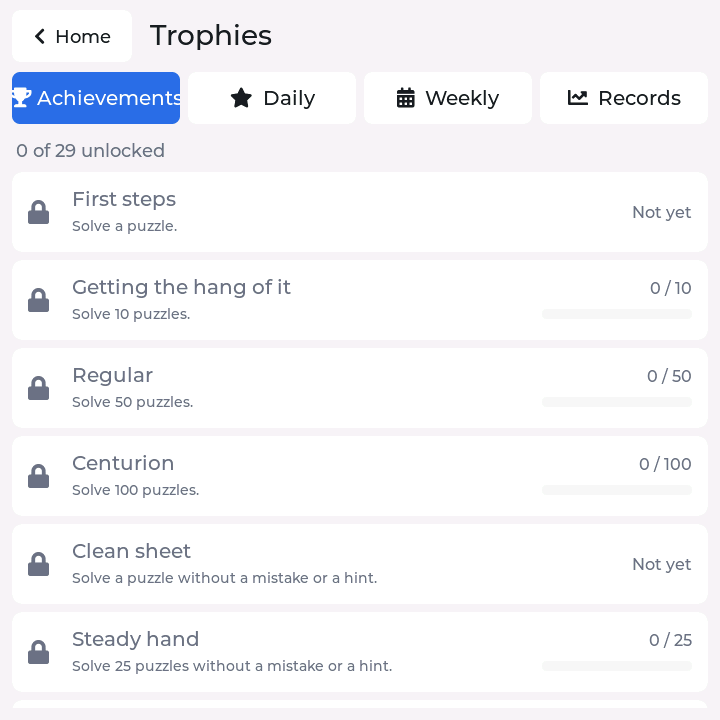
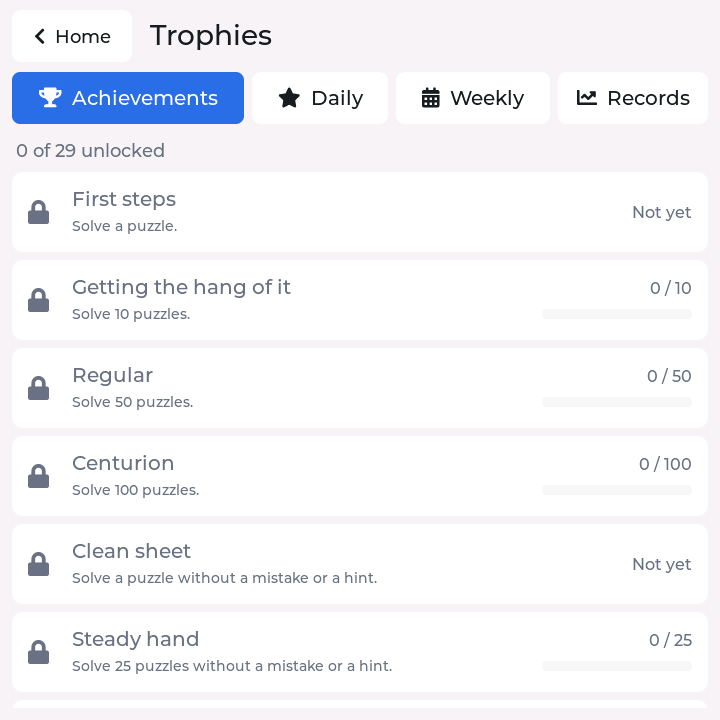
update screenshot

Changed region(s): [[0.0, 0.0917, 0.5194, 0.1833], [0.7639, 0.1222, 0.9778, 0.1528], [0.55, 0.1222, 0.7333, 0.1528]]

diff --git a/src/sudoku_ui.c b/src/sudoku_ui.c
@@ -594,166 +594,18 @@ static lv_obj_t *make_label(lv_obj_t *parent, const lv_font_t *font, lv_color_t 
     return l;
 }
 
-/* ------------------------------------------------------------- justified text */
-/*
- * LVGL labels can't justify text, so this widget lays the words out itself:
- * every line of a paragraph but the last is spread to the full width (left
- * and right edges flush); the last line, and a line of one word, stay left.
- * '\n' ends a paragraph. Font, colour and line spacing come from the styles
- * (inherited, like a label). Words are measured glyph by glyph (UTF-8).
- * Height follows the text (LV_SIZE_CONTENT). Every dialog (make_msgbox) uses it.
- */
-typedef struct {
-    char *text;
-    int32_t width;                      /* content width the height was worked out for */
-} just_t;
-
-#define JUST_MAX_WORDS 64               /* per line */
-
-/* the UTF-8 character at s[*i] (moves *i past it); 0 at n */
-static uint32_t just_utf8_next(const char *s, int n, int *i)
+/* ------------------------------------------------------------- dialog text */
+/* Text that wraps to its parent's width, left-aligned (dialogs). Font: NULL
+ * = the parent's (inherited, like a label's). */
+static lv_obj_t *make_wrap_text(lv_obj_t *parent, const lv_font_t *font, lv_color_t color, const char *text)
 {
-    if (*i >= n) return 0;
-    uint8_t c = (uint8_t)s[(*i)++];
-    int more = c >= 0xF0 ? 3 : c >= 0xE0 ? 2 : c >= 0xC0 ? 1 : 0;
-    uint32_t cp = more == 3 ? (c & 0x07u) : more == 2 ? (c & 0x0Fu) : more == 1 ? (c & 0x1Fu) : c;
-    while (more-- > 0 && *i < n) cp = (cp << 6) | ((uint8_t)s[(*i)++] & 0x3Fu);
-    return cp;
-}
-
-static int32_t just_word_w(const lv_font_t *f, const char *s, int n, int32_t letter_space)
-{
-    int32_t w = 0;
-    int i = 0;
-    uint32_t cp = just_utf8_next(s, n, &i);
-    while (cp) {
-        uint32_t next = just_utf8_next(s, n, &i);
-        w += lv_font_get_glyph_width(f, cp, next) + letter_space;
-        cp = next;
-    }
-    return w;
-}
-
-/* lays the text out in width w; with layer, draws it from co's top left. Returns the line count. */
-static int just_run(lv_obj_t *obj, int32_t w, lv_layer_t *layer, const lv_area_t *co)
-{
-    const just_t *j = lv_obj_get_user_data(obj);
-    if (!j || !j->text) return 0;
-    const lv_font_t *f = lv_obj_get_style_text_font(obj, 0);
-    int32_t ls = lv_obj_get_style_text_letter_space(obj, 0);
-    int32_t line_h = lv_font_get_line_height(f) + lv_obj_get_style_text_line_space(obj, 0);
-    int32_t space_w = lv_font_get_glyph_width(f, ' ', 0) + ls;
-    lv_draw_label_dsc_t d;
-    if (layer) {
-        lv_draw_label_dsc_init(&d);
-        d.font = f;
-        d.color = lv_obj_get_style_text_color(obj, 0);
-        d.opa = lv_obj_get_style_text_opa(obj, 0);
-        d.letter_space = ls;
-    }
-    const char *p = j->text;
-    int lines = 0;
-    while (*p) {
-        const char *ws[JUST_MAX_WORDS];
-        int32_t ww[JUST_MAX_WORDS], sum = 0;
-        int wl[JUST_MAX_WORDS], nw = 0;
-        while (*p == ' ') p++;
-        while (*p && *p != '\n') {                  /* words while they fit */
-            const char *e = p;
-            while (*e && *e != ' ' && *e != '\n') e++;
-            int32_t wd = just_word_w(f, p, (int)(e - p), ls);
-            if (nw && (sum + nw * space_w + wd > w || nw == JUST_MAX_WORDS)) break;
-            ws[nw] = p;
-            wl[nw] = (int)(e - p);
-            ww[nw] = wd;
-            sum += wd;
-            nw++;
-            p = e;
-            while (*p == ' ') p++;
-        }
-        bool last = !*p || *p == '\n';
-        if (layer) {
-            int32_t x = 0, spare = w - sum;
-            for (int k = 0; k < nw; k++) {
-                int32_t gap = last || nw < 2 ? k * space_w : spare * k / (nw - 1);
-                lv_area_t a = {.x1 = co->x1 + x + gap, .y1 = co->y1 + lines * line_h};
-                a.x2 = a.x1 + ww[k] + 8;            /* slack: the word never wraps */
-                a.y2 = a.y1 + line_h - 1;
-                d.text = ws[k];
-                d.text_length = (uint32_t)wl[k];
-                lv_draw_label(layer, &d, &a);
-                x += ww[k];
-            }
-        }
-        lines++;
-        if (*p == '\n') p++;
-    }
-    return lines;
-}
-
-static void just_event_cb(lv_event_t *e)
-{
-    lv_obj_t *obj = lv_event_get_current_target_obj(e);
-    just_t *j = lv_obj_get_user_data(obj);
-    switch (lv_event_get_code(e)) {
-    case LV_EVENT_GET_SELF_SIZE: {
-        lv_point_t *pt = lv_event_get_param(e);
-        const lv_font_t *f = lv_obj_get_style_text_font(obj, 0);
-        int32_t lsp = lv_obj_get_style_text_line_space(obj, 0);
-        int n = just_run(obj, lv_obj_get_content_width(obj), NULL, NULL);
-        int32_t h = n ? n * (lv_font_get_line_height(f) + lsp) - lsp : 0;
-        if (pt->y < h) pt->y = h;
-        break;
-    }
-    case LV_EVENT_SIZE_CHANGED:                     /* a new width: new line breaks, new height */
-        if (j && j->width != lv_obj_get_content_width(obj)) {
-            j->width = lv_obj_get_content_width(obj);
-            lv_obj_refresh_self_size(obj);
-        }
-        break;
-    case LV_EVENT_DRAW_MAIN_END: {
-        lv_area_t co;
-        lv_obj_get_content_coords(obj, &co);
-        just_run(obj, lv_area_get_width(&co), lv_event_get_layer(e), &co);
-        break;
-    }
-    case LV_EVENT_DELETE:
-        if (j) {
-            lv_free(j->text);
-            lv_free(j);
-        }
-        lv_obj_set_user_data(obj, NULL);
-        break;
-    default:
-        break;
-    }
-}
-
-static void just_set_text(lv_obj_t *obj, const char *text)
-{
-    just_t *j = lv_obj_get_user_data(obj);
-    if (!j) return;
-    lv_free(j->text);
-    j->text = lv_strdup(text ? text : "");
-    lv_obj_refresh_self_size(obj);
-    lv_obj_invalidate(obj);
-}
-
-/* justified text, full width of its parent (font and colour as for make_label) */
-static lv_obj_t *make_just_text(lv_obj_t *parent, const lv_font_t *font, lv_color_t color, const char *text)
-{
-    lv_obj_t *obj = lv_obj_create(parent);
-    lv_obj_remove_style_all(obj);
-    lv_obj_set_size(obj, LV_PCT(100), LV_SIZE_CONTENT);
-    lv_obj_set_scrollable(obj, false);
-    lv_obj_set_clickable(obj, false);
-    if (font) lv_obj_set_style_text_font(obj, font, 0);
-    lv_obj_set_style_text_color(obj, color, 0);
-    just_t *j = lv_malloc_zeroed(sizeof(just_t));
-    lv_obj_set_user_data(obj, j);
-    lv_obj_add_event_cb(obj, just_event_cb, LV_EVENT_ALL, NULL);
-    just_set_text(obj, text);
-    return obj;
+    lv_obj_t *l = lv_label_create(parent);
+    lv_obj_set_width(l, LV_PCT(100));
+    lv_label_set_long_mode(l, LV_LABEL_LONG_MODE_WRAP);
+    if (font) lv_obj_set_style_text_font(l, font, 0);
+    lv_obj_set_style_text_color(l, color, 0);
+    lv_label_set_text(l, text ? text : "");
+    return l;
 }
 
 /* ============================================================= sudoku rules */
@@ -1830,8 +1682,8 @@ static lv_obj_t *make_msgbox(const char *title, const char *text)
 {
     lv_obj_t *m = lv_msgbox_create(NULL);
     lv_msgbox_add_title(m, title);
-    /* justified (left and right edges flush); NULL: the caller fills the content */
-    if (text) make_just_text(lv_msgbox_get_content(m), NULL, C_TEXT, text);
+    /* left-aligned, wrapped; NULL: the caller fills the content */
+    if (text) make_wrap_text(lv_msgbox_get_content(m), NULL, C_TEXT, text);
     lv_obj_set_width(m, 520);
     lv_obj_set_style_text_font(m, &lv_font_montserrat_20, 0);
     return m;
@@ -1842,7 +1694,10 @@ static void msgbox_button(lv_obj_t *m, const char *text, lv_event_cb_t cb, bool 
     lv_obj_t *b = lv_msgbox_add_footer_button(m, text);
     lv_obj_set_flex_grow(b, 1);
     lv_obj_set_height(b, 52);
-    if (!primary) lv_obj_set_style_bg_color(b, C_CARD, 0);
+    if (!primary) {                                 /* Cancel, Close ...: grey, not the dialog's own white */
+        lv_obj_set_style_bg_color(b, C_CARD2, 0);
+        lv_obj_set_style_text_color(b, C_TEXT, 0);
+    }
     lv_obj_add_event_cb(b, cb, LV_EVENT_CLICKED, m);
     /* LVGL makes the footer LV_DPI_DEF / 3 (~43 px) tall, less than these
      * 52 px buttons, which then spill over the text and past the box edge */
@@ -2468,7 +2323,7 @@ static void rules_show(int variant)
     lv_obj_set_size(pic, LV_PCT(100), p->h * 40 + 16);
     lv_obj_set_user_data(pic, (void *)p);
     lv_obj_add_event_cb(pic, rules_pic_draw_cb, LV_EVENT_DRAW_MAIN_END, NULL);
-    lv_obj_t *t = make_just_text(lv_msgbox_get_content(m), NULL, C_TEXT, RULES_TEXT[variant]);
+    lv_obj_t *t = make_wrap_text(lv_msgbox_get_content(m), NULL, C_TEXT, RULES_TEXT[variant]);
     lv_obj_set_style_margin_top(t, 10, 0);
     msgbox_button(m, "OK", mbox_close_cb, true);
 }
@@ -3460,7 +3315,7 @@ static void gen_var_cb(lv_event_t *e)
     uint32_t sel = lv_buttonmatrix_get_selected_button(bm);
     if (sel == LV_BUTTONMATRIX_BUTTON_NONE || sel >= VAR_COUNT) return;
     gen_pick_var = GEN_VAR_ORDER[sel];
-    just_set_text(gen_pick_desc, GEN_VAR_DESC[gen_pick_var]);
+    lv_label_set_text(gen_pick_desc, GEN_VAR_DESC[gen_pick_var]);
 }
 
 static void gen_cancel_cb(lv_event_t *e)
@@ -3479,7 +3334,7 @@ static void new_puzzle_cb(lv_event_t *e)
     lv_obj_t *m = make_msgbox("New puzzle", NULL);
     gen_pick = m;
     lv_obj_set_width(m, 600);
-    make_just_text(lv_msgbox_get_content(m), NULL, C_TEXT,
+    make_wrap_text(lv_msgbox_get_content(m), NULL, C_TEXT,
                    "A new puzzle made on the board, with exactly one solution. Easy and Medium need only "
                    "singles; Hard needs pairs or locked candidates; Expert needs more than that.");
 
@@ -3506,7 +3361,7 @@ static void new_puzzle_cb(lv_event_t *e)
     lv_obj_set_style_bg_color(vm, C_ACCENT, LV_PART_ITEMS | LV_STATE_CHECKED);
     lv_obj_set_style_text_color(vm, lv_color_white(), LV_PART_ITEMS | LV_STATE_CHECKED);
     lv_obj_add_event_cb(vm, gen_var_cb, LV_EVENT_VALUE_CHANGED, NULL);
-    gen_pick_desc = make_just_text(lv_msgbox_get_content(m), &lv_font_montserrat_16, C_MUTED,
+    gen_pick_desc = make_wrap_text(lv_msgbox_get_content(m), &lv_font_montserrat_16, C_MUTED,
                                    GEN_VAR_DESC[gen_pick_var]);
     lv_obj_set_style_margin_top(gen_pick_desc, 8, 0);
 
@@ -3519,8 +3374,12 @@ static void new_puzzle_cb(lv_event_t *e)
     lv_obj_set_style_pad_row(grid, 12, 0);
     lv_obj_set_style_pad_top(grid, 16, 0);
     for (int lv = 0; lv < GEN_LEVELS; lv++) {
-        lv_obj_t *b = make_btn(grid, 0, 0, 0, 60, GEN_LEVEL_NAMES[lv], &lv_font_montserrat_22, gen_level_cb,
-                               (void *)(intptr_t)lv);
+        /* a star per step: Easy one, Expert four */
+        char label[48] = "";
+        for (int k = 0; k <= lv; k++) strcat(label, SYMBOL_STAR);
+        strcat(label, "  ");
+        strcat(label, GEN_LEVEL_NAMES[lv]);
+        lv_obj_t *b = make_btn(grid, 0, 0, 0, 60, label, &font_icons_24, gen_level_cb, (void *)(intptr_t)lv);
         lv_obj_set_width(b, LV_PCT(48));
         lv_obj_set_style_bg_color(b, C_ACCENT, 0);
         lv_obj_set_style_text_color(lv_obj_get_child(b, 0), lv_color_white(), 0);
@@ -3682,7 +3541,7 @@ static void learn_cb(lv_event_t *e)
     learn_box = m;
     lv_obj_set_width(m, 640);
     lv_obj_t *c = lv_msgbox_get_content(m);
-    make_just_text(c, &lv_font_montserrat_16, C_MUTED,
+    make_wrap_text(c, &lv_font_montserrat_16, C_MUTED,
                    "Pick one: a puzzle opens where it's the next step, with the hint showing where to look. "
                    "Practice games aren't saved or counted.");
     for (int i = 0; i < LEARN_COUNT; i++) {
@@ -5940,13 +5799,15 @@ static void build_trophies(void)
     lv_obj_t *t = make_label(scr_trophy, &lv_font_montserrat_28, C_TEXT);
     lv_label_set_text(t, "Trophies");
     lv_obj_set_pos(t, 150, 20);
-    static const char *const TABS[TR_TABS] = {SYMBOL_TROPHY " Achievements", SYMBOL_STAR "  Daily",
+    static const char *const TABS[TR_TABS] = {SYMBOL_TROPHY "  Achievements", SYMBOL_STAR "  Daily",
                                               SYMBOL_CALENDAR "  Weekly", SYMBOL_CHART "  Records"};
-    /* the tabs: a row of equal buttons across the page, under the title */
-    const int tab_gap = 8, tab_w = (SCR_W - 24 - (TR_TABS - 1) * tab_gap) / TR_TABS;
-    for (int i = 0; i < TR_TABS; i++) {
-        tr_tab[i] = make_btn(scr_trophy, 12 + i * (tab_w + tab_gap), TR_TAB_Y, tab_w, TR_TAB_H, TABS[i], &font_icons_20,
-                             tr_tab_cb, (void *)(intptr_t)i);
+    /* the tabs: a row across the page under the title, each as wide as its label needs
+     * with room either side (Achievements is the long one); 232 + 136 + 154 + 150 + 3 x 8 = 696 */
+    static const int TAB_W[TR_TABS] = {232, 136, 154, 150};
+    const int tab_gap = 8;
+    for (int i = 0, x = 12; i < TR_TABS; x += TAB_W[i++] + tab_gap) {
+        tr_tab[i] = make_btn(scr_trophy, x, TR_TAB_Y, TAB_W[i], TR_TAB_H, TABS[i], &font_icons_20, tr_tab_cb,
+                             (void *)(intptr_t)i);
     }
 
     /* achievements */
